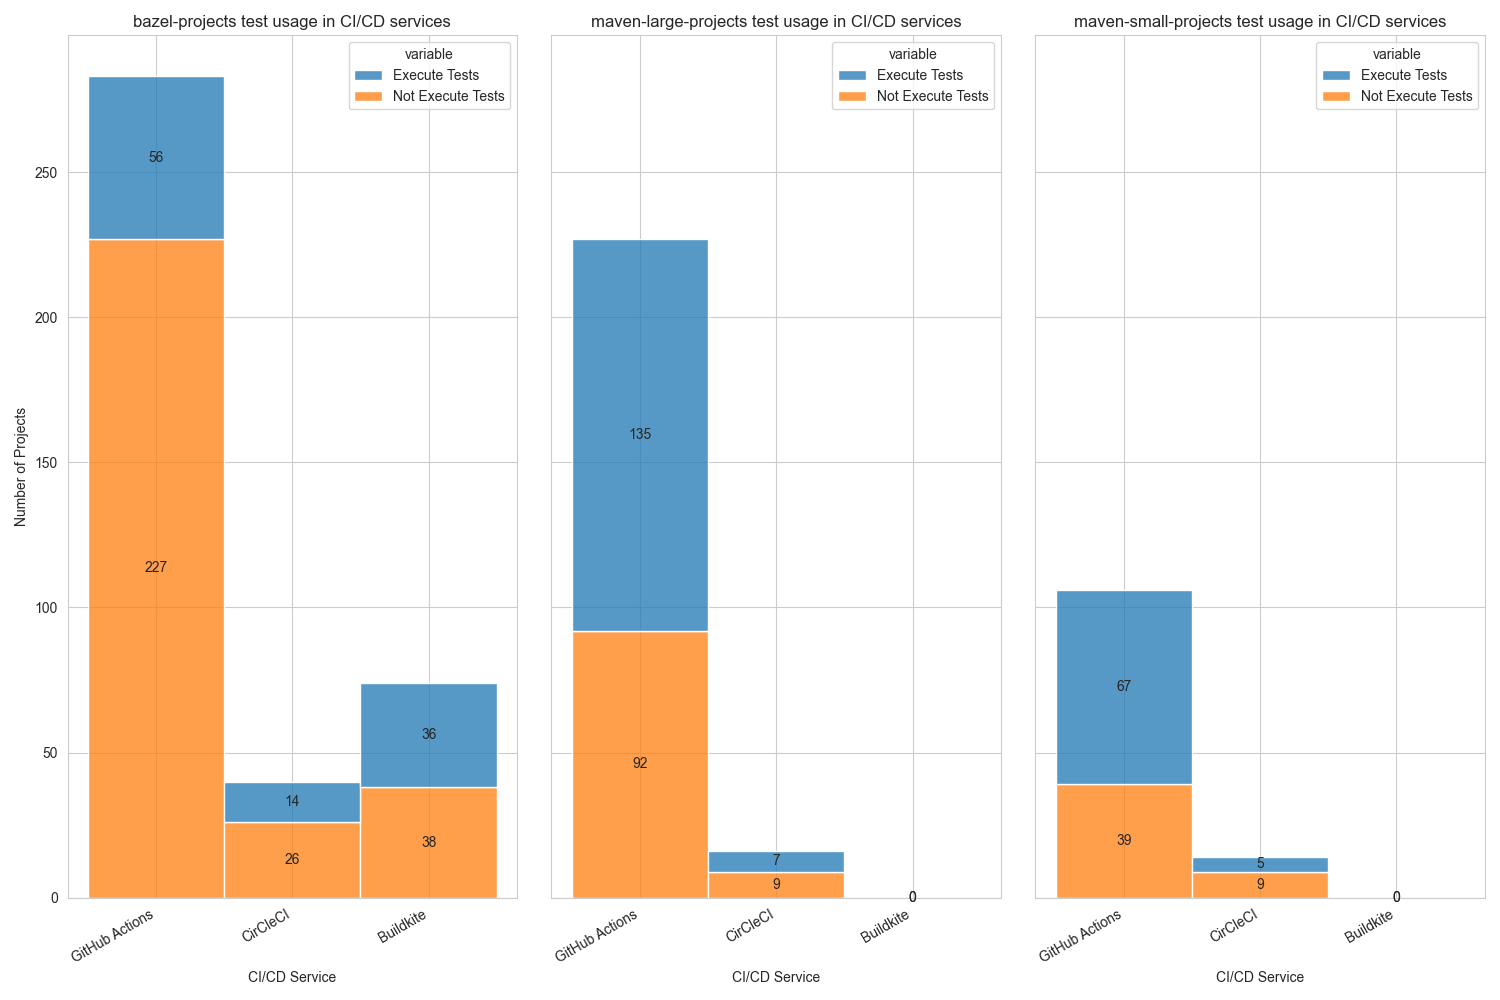
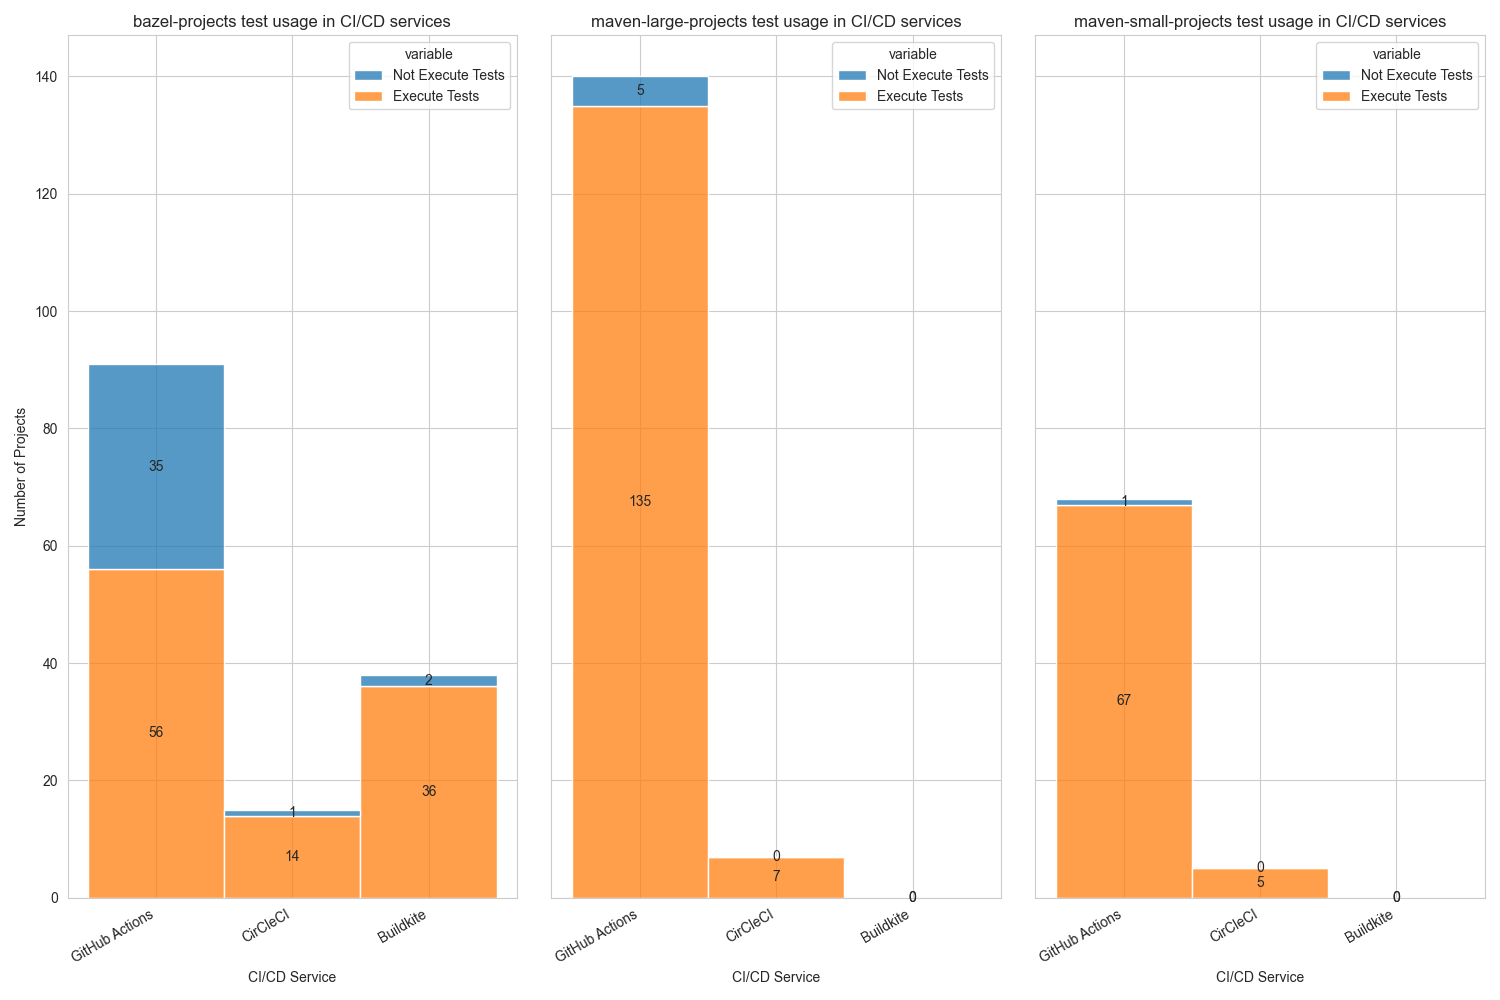
feat: generate test usage graph

diff --git a/visualization/visualize.py b/visualization/visualize.py
@@ -10,9 +10,9 @@ def visualize_data(data_dir: str):
     sns.set_style("whitegrid")
 
     data_dir = os.path.join(data_dir, "processed")
-    # visualize_ci_tools(data_dir)
-    # visualize_parallelization_usage(data_dir)
-    # visualize_cache_usage(data_dir)
+    visualize_ci_tools(data_dir)
+    visualize_parallelization_usage(data_dir)
+    visualize_cache_usage(data_dir)
     visualize_test_usage(data_dir)
 
 
@@ -157,6 +157,16 @@ def visualize_cache_usage(data_dir: str):
     plt.show()
 
 
+def subcommand_filter(ci_tool, target_subcommand):
+    def filter_func(row):
+        if row["ci_tool"] == ci_tool and intersect(row["subcommands"].split(","), target_subcommand):
+            return True
+        else:
+            return False
+
+    return filter_func
+
+
 def visualize_test_usage(data_dir: str):
     test_goals = ["test", "integration-test", "package", "verify", "install", "deploy"]
 
@@ -169,38 +179,33 @@ def visualize_test_usage(data_dir: str):
                       "CI/CD Services": ["GitHub Actions", "CirCleCI", "Buildkite"]}
 
         df = pd.read_csv(os.path.join(data_dir, f"{parent_dir_name}-build_tools.csv"))
-        gha_test = df.loc[(df["ci_tool"] == "github_actions") & df["subcommands"].str.split(",").apply(
-            lambda x: intersect(x, test_goals))]
-        gha_no_test = df.loc[(df["ci_tool"] == "github_actions") & ~df["subcommands"].str.split(",").apply(
-            lambda x: intersect(x, test_goals))]
+        df = df.loc[df["use_build_tool"]]
 
-        gha_test = gha_test["project"].unique()
-        gha_no_test = gha_no_test["project"].unique()
-        test_usage["Execute Tests"].append(len(gha_test))
-        test_usage["Not Execute Tests"].append(len(gha_no_test))
+        gha_test = df.loc[df.apply(subcommand_filter("github_actions", test_goals), axis=1)]
+        total_gha_projects = len(df.loc[df["ci_tool"] == "github_actions"]["project"].unique())
+        gha_test_projects = len(gha_test["project"].unique())
 
-        circleci_test = df.loc[(df["ci_tool"] == "circle_ci") & df["subcommands"].str.split(",").apply(
-            lambda x: intersect(x, test_goals))]
-        circleci_no_test = df.loc[(df["ci_tool"] == "circle_ci") & ~df["subcommands"].str.split(",").apply(
-            lambda x: intersect(x, test_goals))]
-        circleci_test = circleci_test["project"].unique()
-        circleci_no_test = circleci_no_test["project"].unique()
-        test_usage["Execute Tests"].append(len(circleci_test))
-        test_usage["Not Execute Tests"].append(len(circleci_no_test))
+        test_usage["Execute Tests"].append(gha_test_projects)
+        test_usage["Not Execute Tests"].append(total_gha_projects - gha_test_projects)
 
-        buildkite_test = df.loc[(df["ci_tool"] == "buildkite") & df["subcommands"].str.split(",").apply(
-            lambda x: intersect(x, test_goals))]
-        buildkite_no_test = df.loc[(df["ci_tool"] == "buildkite") & ~df["subcommands"].str.split(",").apply(
-            lambda x: intersect(x, test_goals))]
-        buildkite_test = buildkite_test["project"].unique()
-        buildkite_no_test = buildkite_no_test["project"].unique()
-        test_usage["Execute Tests"].append(len(buildkite_test))
-        test_usage["Not Execute Tests"].append(len(buildkite_no_test))
+        circleci_test = df.loc[df.apply(subcommand_filter("circle_ci", test_goals), axis=1)]
+        total_circleci_projects = len(df.loc[df["ci_tool"] == "circle_ci"]["project"].unique())
+        circleci_test_projects = len(circleci_test["project"].unique())
+
+        test_usage["Execute Tests"].append(circleci_test_projects)
+        test_usage["Not Execute Tests"].append(total_circleci_projects - circleci_test_projects)
+
+        buildkite_test = df.loc[df.apply(subcommand_filter("buildkite", test_goals), axis=1)]
+        total_buildkite_projects = len(df.loc[df["ci_tool"] == "buildkite"]["project"].unique())
+        buildkite_test_projects = len(buildkite_test["project"].unique())
+
+        test_usage["Execute Tests"].append(buildkite_test_projects)
+        test_usage["Not Execute Tests"].append(total_buildkite_projects - buildkite_test_projects)
 
         test_usage = pd.DataFrame(test_usage)
         test_usage = test_usage.melt(id_vars="CI/CD Services")
         ax = sns.histplot(data=test_usage, x="CI/CD Services", hue="variable", weights="value", discrete=True,
-                          multiple="stack", ax=axs[idx])
+                          hue_order=["Not Execute Tests", "Execute Tests"], multiple="stack", ax=axs[idx])
         idx += 1
 
         for c in ax.containers:
